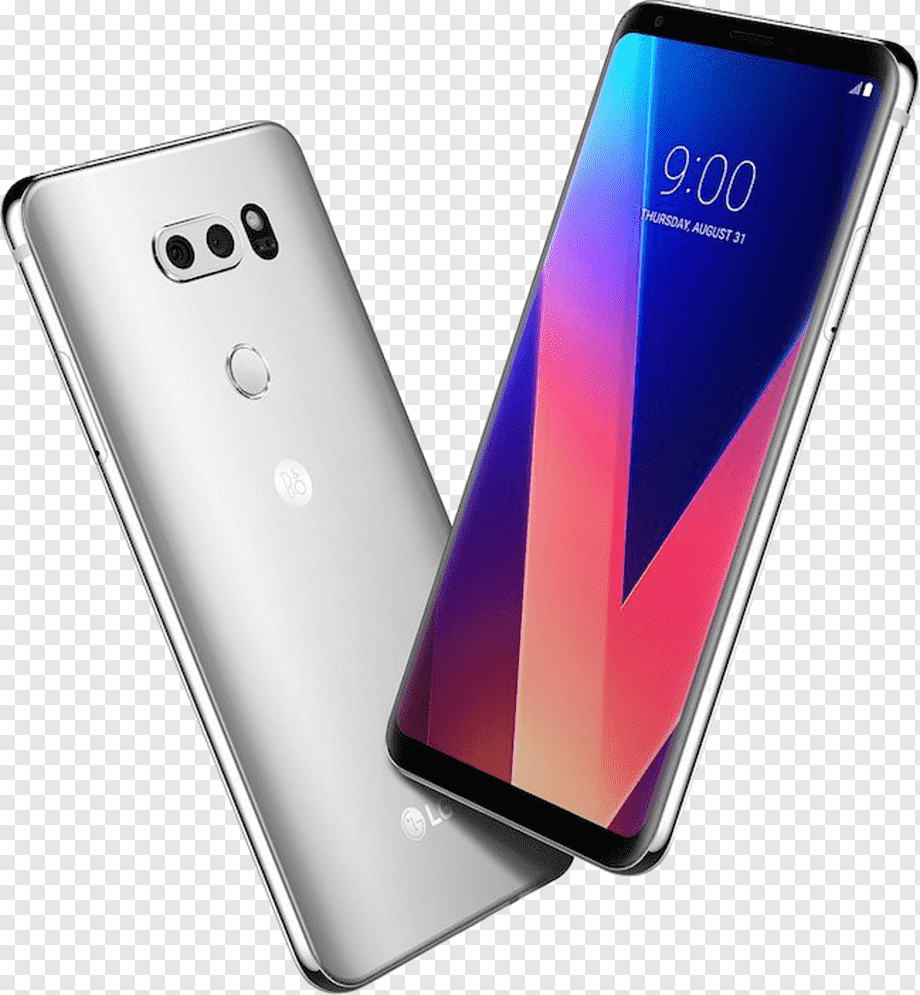
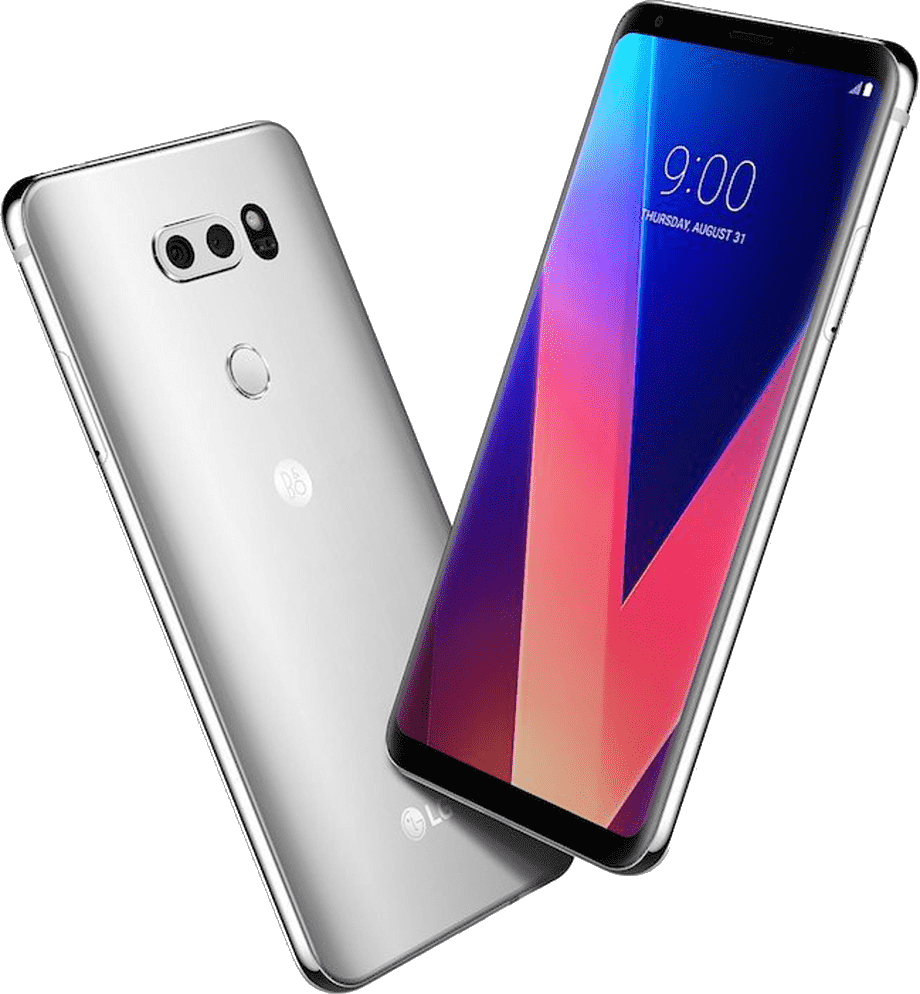
adds modal and updated images

diff --git a/src/App.js b/src/App.js
@@ -4,8 +4,13 @@ import { useEffect } from 'react'
 import './App.scss'
 
 // Redux
-import { useDispatch } from 'react-redux'
-import { setProducts } from './components/Product/productSlice'
+import { useDispatch, useSelector } from 'react-redux'
+import {
+    setProducts,
+    setModalVisible,
+    removeProduct,
+    productCountInBasket
+} from './components/Product/productSlice'
 
 // Components
 import Header from './components/Header/Header'
@@ -13,8 +18,13 @@ import Header from './components/Header/Header'
 // Components
 import ContentHeader from 'components/ContentHeader/ContentHeader'
 import Content from 'components/Content/Content'
+import Modal from 'components/Modal/Modal'
 
 function App() {
+    // Global State
+    const isModalVisible = useSelector(state => state.product.isModalVisible)
+    const productToBeRemoved = useSelector(state => state.product.productToBeRemoved)
+
     const dispatch = useDispatch()
     const productData = JSON.parse(localStorage.getItem('products'))
 
@@ -23,6 +33,15 @@ function App() {
         // eslint-disable-next-line
     }, [])
 
+    const handleNoClicked = (event) => {
+        dispatch(setModalVisible(false))
+    }
+
+    const handleYesClicked = (event) => {
+        dispatch(removeProduct(productToBeRemoved))
+        dispatch(productCountInBasket())
+        dispatch(setModalVisible(false))
+    }
 
     return (
         <div className="App">
@@ -31,6 +50,22 @@ function App() {
                 <ContentHeader />
                 <Content />
             </div>
+            {
+                isModalVisible && (
+                    <Modal
+                        title={'Ürünü silmek istediğinize emin misiniz?'}
+                        children={
+                            'Lorem Ipsum is simply dummy text of the printing and typesetting ' +
+                            'industry. Lorem Ipsum has been the industrys ' +
+                            'standard dummy text ever since the 1500s, when an unknown printer took a galley ' +
+                            'of type and scrambled it to make a type specimen book. ' +
+                            'It has survived not only five centuries, but also the leap into electronic typesetting, remaining essentiall....'
+                        }
+                        handleYesClicked={handleYesClicked}
+                        handleNoClicked={handleNoClicked}
+                    />
+                )
+            }
         </div>
     )
 }

diff --git a/src/components/Modal/style.scss b/src/components/Modal/style.scss
@@ -1,0 +1,74 @@
+@import 'variables.scss';
+
+.overlay {
+    width     : 100%;
+    height    : 100%;
+    background: rgba(0, 0, 0, .7);
+    position  : fixed;
+    top       : 0;
+    left      : 0;
+    z-index   : 10;
+}
+
+.modal {
+    position  : fixed;
+    z-index   : 20;
+    background: #fff;
+    max-width : 500px;
+    top       : 50%;
+    left      : 50%;
+    transform : translateX(-50%) translateY(-50%);
+
+    .modal-title {
+        border-bottom  : 1px solid #cdcdcd;
+        padding        : 20px 20px;
+        display        : flex;
+        justify-content: flex-start;
+        font-weight    : $bold;
+        font-size      : 14px;
+        line-height    : 100%;
+        color          : #484848;
+    }
+
+    .modal-content {
+        padding    : 13px 29px;
+        font-weight: $regular;
+        font-size  : 12px;
+        line-height: 140%;
+        color      : #484848;
+    }
+
+    .modal-footer {
+        display        : flex;
+        justify-content: flex-end;
+        align-items    : center;
+        gap            : 10px;
+        margin         : 20px 29px;
+
+        .yes-button {
+            min-width    : 70px;
+            background   : #90D659;
+            border-radius: 4px;
+            cursor       : pointer;
+        }
+
+        .no-button {
+            min-width    : 70px;
+            background   : #D65959;
+            border-radius: 4px;
+            cursor       : pointer;
+        }
+
+        .button-label {
+            font-weight    : $bold;
+            font-size      : 12px;
+            line-height    : 100%;
+            display        : flex;
+            justify-content: center;
+            align-items    : center;
+            text-align     : center;
+            color          : #fff;
+            padding        : 10px;
+        }
+    }
+}

diff --git a/src/components/Modal/Modal.js b/src/components/Modal/Modal.js
@@ -1,0 +1,39 @@
+// Styles
+import './style.scss'
+
+function Modal({
+    title,
+    children,
+    handleYesClicked,
+    handleNoClicked
+}) {
+    return (
+        <>
+            <div className='overlay'></div>
+            <div className='modal'>
+                <header className='modal-title'>
+                    <span>{title}</span>
+                </header>
+                <main className='modal-content'>
+                    <p>{children}</p>
+                </main>
+                <div className='modal-footer'>
+                    <div
+                        className='yes-button'
+                        onClick={handleYesClicked}
+                    >
+                        <span className='button-label'>EVET</span>
+                    </div>
+                    <div
+                        className='no-button'
+                        onClick={handleNoClicked}
+                    >
+                        <span className='button-label'>HAYIR</span>
+                    </div>
+                </div>
+            </div>
+        </>
+    )
+}
+
+export default Modal

diff --git a/src/components/Product/productSlice.js b/src/components/Product/productSlice.js
@@ -3,7 +3,9 @@ import { createSlice } from '@reduxjs/toolkit'
 const initialState = {
     products: [],
     basketItems: [],
-    productsInBasket: null
+    productsInBasket: null,
+    isModalVisible: false,
+    productToBeRemoved: null
 }
 
 export const productSlice = createSlice({
@@ -45,6 +47,12 @@ export const productSlice = createSlice({
             localStorage.setItem('basketItem', JSON.stringify(newArr))
 
             state.basketItems = Object.assign([], JSON.parse(localStorage.getItem('basketItem')))
+        },
+        setModalVisible: (state, action) => {
+            state.isModalVisible = action.payload
+        },
+        setProductToBeRemoved: (state, action) => {
+            state.productToBeRemoved = action.payload
         }
     },
 })
@@ -54,7 +62,9 @@ export const {
     getProductsInBasket,
     addToBasket,
     productCountInBasket,
-    removeProduct
+    removeProduct,
+    setModalVisible,
+    setProductToBeRemoved
 } = productSlice.actions
 
 export default productSlice.reducer

diff --git a/src/components/BasketProduct/BasketProduct.js b/src/components/BasketProduct/BasketProduct.js
@@ -1,8 +1,8 @@
 // Redux
 import { useDispatch } from 'react-redux'
 import {
-    removeProduct,
-    productCountInBasket
+    setModalVisible,
+    setProductToBeRemoved
 } from 'components/Product/productSlice'
 
 // Styles
@@ -17,8 +17,9 @@ function BasketProduct({ product }) {
     const dispatch = useDispatch()
 
     const handleRemoveProduct = (event, product) => {
-        dispatch(removeProduct(product))
-        dispatch(productCountInBasket())
+        dispatch(setModalVisible(true))
+
+        dispatch(setProductToBeRemoved(product))
     }
 
     return (
